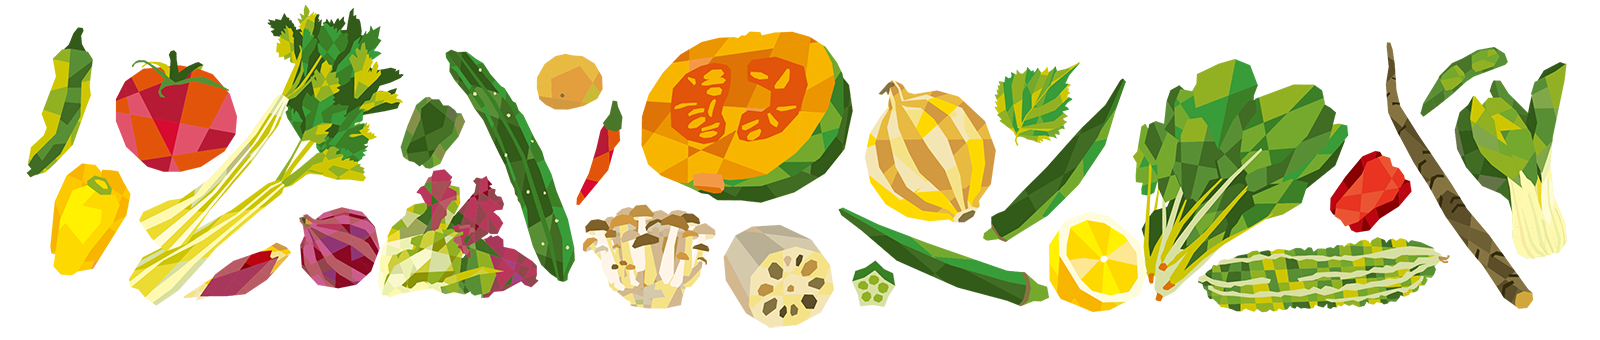
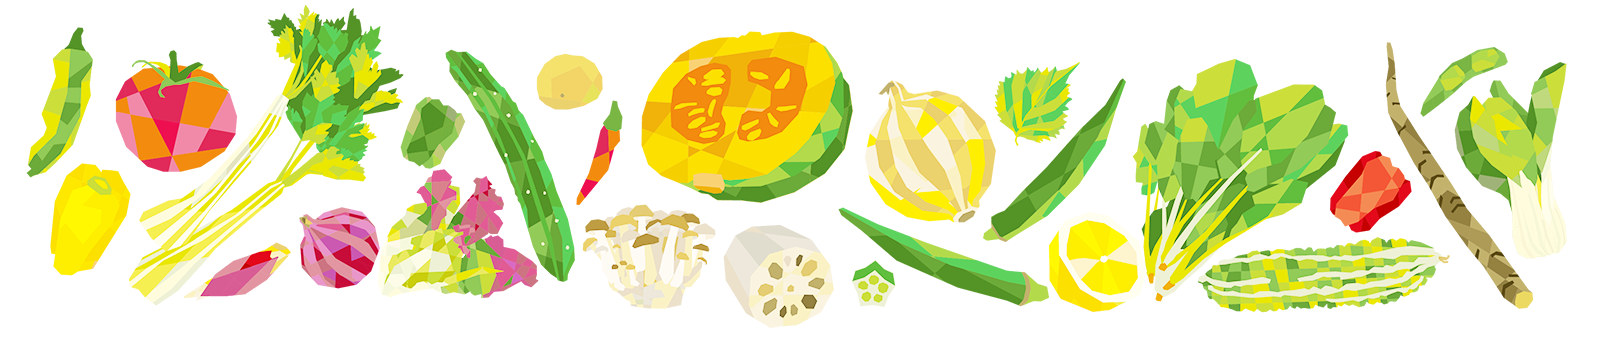
背景画像の明るさと彩度を変更

diff --git a/app/assets/stylesheets/custom.scss b/app/assets/stylesheets/custom.scss
@@ -5,7 +5,7 @@ body {
   color: #491a00;
   font-size: 1.5em;
   font-family: "ヒラギノ丸ゴ ProN W4", "ＭＳ Ｐゴシック", sans-serif;
-  background-image: url("lower_flame.png");
+  background-image: url("lower_flame_2.png");
   background-size: 70% 25%;
   background-repeat: repeat-x;
   background-attachment: fixed;
